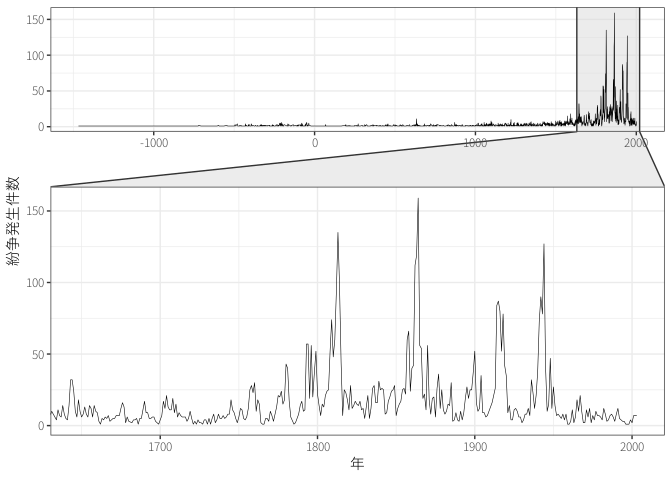
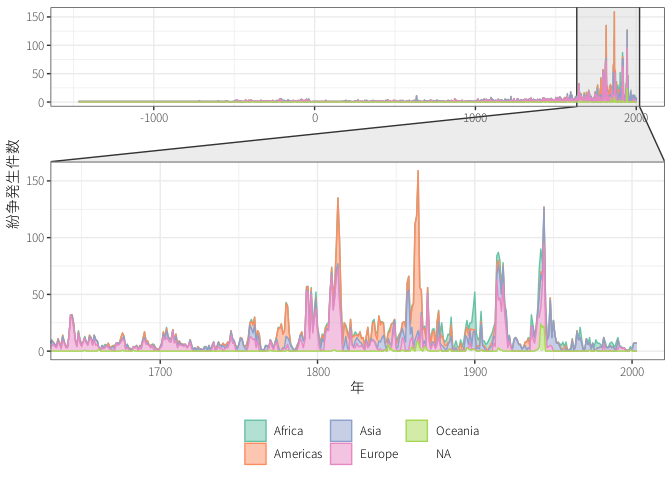
modify chapter on international society

diff --git a/docs/international_society.html b/docs/international_society.html
@@ -573,6 +573,12 @@ div.csl-indent {
 <ul>
 <li><a href="https://www.icj-cij.org/en/declarations"><strong>選択条項受諾宣言</strong></a>（強制管轄権受諾宣言）</li>
 </ul>
+<div class="quarto-figure quarto-figure-center">
+<figure class="figure">
+<p><img src="https://upload.wikimedia.org/wikipedia/commons/thumb/6/67/Acceptation_de_la_juridiction_obligatoire_de_la_Cour_Internationale_de_Justice.png/800px-Acceptation_de_la_juridiction_obligatoire_de_la_Cour_Internationale_de_Justice.png" class="img-fluid figure-img"></p>
+<p></p><figcaption class="figure-caption"><a href="https://commons.wikimedia.org/wiki/File:Acceptation_de_la_juridiction_obligatoire_de_la_Cour_Internationale_de_Justice.png">選択条項受諾宣言を行った国</a></figcaption><p></p>
+</figure>
+</div>
 <div class="callout callout-style-default callout-note callout-titled">
 <div class="callout-header d-flex align-content-center">
 <div class="callout-icon-container">
@@ -736,7 +742,7 @@ div.csl-indent {
 </iframe>
 <iframe src="https://ourworldindata.org/grapher/population" loading="lazy" style="width: 100%; height: 600px; border: 0px none;">
 </iframe>
-<div class="cell" data-hash="international_society_cache/html/unnamed-chunk-4_bb15d92dab5a7b560870873f812b8167">
+<div class="cell" data-hash="international_society_cache/html/unnamed-chunk-4_841808488c93f1e550c8e7792d9f4087">
 <div class="cell-output-display">
 <div class="quarto-figure quarto-figure-center">
 <figure class="figure">
@@ -746,11 +752,21 @@ div.csl-indent {
 </div>
 </div>
 </div>
-<div class="cell" data-hash="international_society_cache/html/unnamed-chunk-5_b43a7f52c57a89f1ec3a1eb1efdd8a52">
+<div class="cell" data-hash="international_society_cache/html/unnamed-chunk-5_1977caeeaae30296597aeccbe18946aa">
 <div class="cell-output-display">
 <div class="quarto-figure quarto-figure-center">
 <figure class="figure">
 <p><img src="international_society_files/figure-html/unnamed-chunk-5-1.png" class="img-fluid figure-img"></p>
+<p></p><figcaption class="figure-caption">武力紛争の推移<span class="citation" data-cites="miller2023">(<a href="#ref-miller2023" role="doc-biblioref">Miller と Bakar 2023</a>)</span></figcaption><p></p>
+</figure>
+</div>
+</div>
+</div>
+<div class="cell" data-hash="international_society_cache/html/unnamed-chunk-6_a5dd6f65bfd2cffb985a84e1654154c5">
+<div class="cell-output-display">
+<div class="quarto-figure quarto-figure-center">
+<figure class="figure">
+<p><img src="international_society_files/figure-html/unnamed-chunk-6-1.png" class="img-fluid figure-img"></p>
 <p></p><figcaption class="figure-caption">武力紛争の分布（1648-2003年）<span class="citation" data-cites="miller2023">(<a href="#ref-miller2023" role="doc-biblioref">Miller と Bakar 2023</a>)</span></figcaption><p></p>
 </figure>
 </div>
